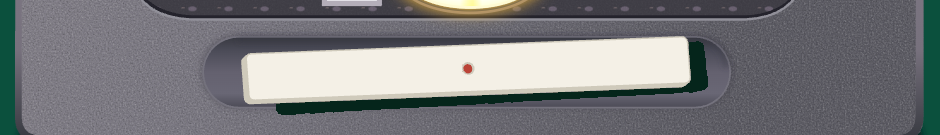
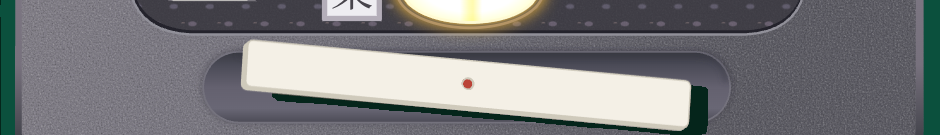
Unify control-box stick channels and blank all main-river tile fronts

diff --git a/app.js b/app.js
@@ -1,10 +1,10 @@
-import { smooth, center, entryScale, flipPose, motionDistance } from './geometry.js?v=20261011-ripple-origin';
-import { Mahjong3D, VIEW } from './mahjong-3d.js?v=20261011-ripple-origin';
-import { REST_STICK, STICK_PICKUP_DURATION, createStickDrop, stickMotionDistance } from './score-stick.js?v=20261011-ripple-origin';
-import { flipAt, settleFlips, revealTiles, resetTiles, topLeftTile, yellowAction, waveInProgress, tileAction } from './tile-interactions.js?v=20261011-ripple-origin';
-import { RIICHI_FACES, nextRiichiFace, sideRiverFaces } from './riichi-faces.js?v=20261011-ripple-origin';
-import { sideRiverCenters } from './river-layout.js?v=20261011-ripple-origin';
-import { drawTableSeams, tableLayout } from './table-surface.js?v=20261011-ripple-origin';
+import { smooth, center, entryScale, flipPose, motionDistance } from './geometry.js?v=20261011-blank-fronts';
+import { Mahjong3D, VIEW } from './mahjong-3d.js?v=20261011-blank-fronts';
+import { REST_STICK, STICK_PICKUP_DURATION, createStickDrop, stickMotionDistance } from './score-stick.js?v=20261011-blank-fronts';
+import { flipAt, settleFlips, revealTiles, resetTiles, topLeftTile, yellowAction, waveInProgress, tileAction } from './tile-interactions.js?v=20261011-blank-fronts';
+import { RIICHI_FACES, sideRiverFaces } from './riichi-faces.js?v=20261011-blank-fronts';
+import { sideRiverCenters } from './river-layout.js?v=20261011-blank-fronts';
+import { drawTableSeams, tableLayout } from './table-surface.js?v=20261011-blank-fronts';
 import { CONTROL } from './physical-layout.js';
 
 const $ = (id) => document.getElementById(id);
@@ -12,10 +12,7 @@ const scene = $('scene'), board = $('board'), canvas = $('table');
 scene.style.setProperty('--console-scale', String(CONTROL.scale));
 scene.style.setProperty('--console-left', `${CONTROL.left}px`);
 const ctx = canvas.getContext('2d', { alpha: false });
-const FONT = '"Source Han Sans SC", "Noto Sans CJK SC", "Noto Sans SC", "PingFang SC", "Microsoft YaHei", sans-serif';
 const COLORS = { table: '#0B503D', back: '#2457B8', front: '#F4F0E6' };
-const UNIT_IDS = ['A', 'A', 'A', 'B', 'B', 'B', 'A', 'A', 'A', 'C', 'C', 'D', 'E', 'E', 'F', 'F', 'G', 'G'];
-const UNIT_NAMES = { A: '主图：观察与秩序', B: '简介：牌河视觉档案', C: '项目：网格实验', D: '关于：整理与创作', E: '文字：近处的秩序', F: '图片：图像研究', G: '联系：一起做点什么' };
 let phase = 'loading', epoch = 0, loadingEpoch = 0, resetCycle = null;
 const LOADING_FADE_DURATION = 200, SCENERY_FADE_DURATION = 200;
 let hovered = null, pressed = null;
@@ -27,7 +24,7 @@ const CONTROL_HINTS = { dealer: 'github', streak: 'bilibili', reset: '重置', '
 let hoveredControl = null, focusedControl = null;
 let stickDrop = null, stickEpoch = 0, restingStick = REST_STICK;
 const mainTiles = Array.from({ length: 18 }, (_, index) => ({
-  index, riverIndex: index, side: 'main', rotation: 0, ...center(index), unit: UNIT_IDS[index], fragment: null, tween: null, front: false, flips: [], order: index,
+  index, riverIndex: index, side: 'main', rotation: 0, ...center(index), fragment: null, tween: null, front: false, flips: [], order: index,
 }));
 const sideTiles = [...sideRiverCenters('kamicha'), ...sideRiverCenters('shimocha')].map((position, index) => ({
   ...position, index: 18 + index, riverIndex: position.index, fragment: null, tween: null, front: false, flips: [], order: 18 + index,
@@ -50,59 +47,18 @@ function makeTexture(width, height) {
   return { element, context };
 }
 
-function label(context, text, x, y, size = 16, color = '#748576') {
-  context.font = `${size}px ${FONT}`; context.fillStyle = color; context.textBaseline = 'alphabetic';
-  context.fillText(text, x, y);
-}
-
-function textCard(context, x, caption, title, subtitle = '', line = true) {
-  label(context, caption, x + 14, 34);
-  const titleLines = Array.isArray(title) ? title : [title];
-  titleLines.forEach((text, index) => label(context, text, x + 14, 92 + index * 32, 24, '#254638'));
-  if (subtitle) label(context, subtitle, x + 14, 125, 18, '#254638');
-  if (line) { context.fillStyle = '#c5cebc'; context.fillRect(x + 14, 176, 136, 1); }
-}
-
 async function loadImage(url) {
   const img = new Image(); img.src = url; await img.decode(); return img;
 }
 
 async function buildTextures() {
-  const [art] = await Promise.all([
-    loadImage('./assets/artwork.svg'),
-    Promise.all(RIICHI_FACES.map(async (face) => riichiImages.set(face.code, await loadImage(face.image)))),
-  ]);
-  const units = {};
-  for (const [id, width, height] of [['A', 500, 452], ['B', 500, 224], ['C', 332, 224], ['D', 164, 224], ['E', 332, 224], ['F', 332, 224], ['G', 332, 224]]) {
-    units[id] = makeTexture(width, height);
-    units[id].context.fillStyle = COLORS.front;
-    units[id].context.fillRect(0, 0, width, height);
-  }
-  units.A.context.drawImage(art, 0, 0, 500, 452);
-  textCard(units.B.context, 0, '牌河', '视觉档案', '', false);
-  textCard(units.B.context, 168, '18 张牌', '7 个单元', '', false);
-  textCard(units.B.context, 336, '01 / 简介', '观察与秩序', '', false);
-  textCard(units.C.context, 0, '02 / 项目', '网格实验');
-  textCard(units.C.context, 168, '2026', '设计与交互');
-  textCard(units.D.context, 0, '03 / 关于', '整理与创作');
-  textCard(units.E.context, 0, '04 / 文字', '近处的秩序');
-  textCard(units.E.context, 168, '随笔', '阅读片段');
-  textCard(units.F.context, 0, '05 / 图片', '图像占位');
-  textCard(units.F.context, 168, '图像', '图像研究');
-  textCard(units.G.context, 0, '06 / 联系', ['一起做', '点什么']);
-  textCard(units.G.context, 168, '联系', '保持联系');
-  const origins = {
-    A: [0, 0], B: [0, 3], C: [1, 3], D: [1, 5], E: [2, 0], F: [2, 2], G: [2, 4],
-  };
-  for (const tile of mainTiles) {
-    const [row, col] = origins[tile.unit];
-    const cropX = (tile.index % 6 - col) * 168, cropY = (Math.floor(tile.index / 6) - row) * 228;
-    const texture = makeTexture(164, 224);
-    texture.context.drawImage(units[tile.unit].element, cropX * 2, cropY * 2, 328, 448, 0, 0, 164, 224);
-    roundRect(texture.context, 1, 1, 162, 222, 7, null, '#fbf7ed');
-    tile.fragment = texture.element;
-    tile.crop = { x: cropX, y: cropY, width: 164, height: 224 };
-  }
+  await Promise.all(RIICHI_FACES.filter(face => !face.code.startsWith('0'))
+    .map(async face => riichiImages.set(face.code, await loadImage(face.image))));
+  // All 18 main-river fronts share one entirely blank ivory texture.
+  const blank = makeTexture(164, 224);
+  blank.context.fillStyle = COLORS.front;
+  blank.context.fillRect(0, 0, 164, 224);
+  for (const tile of mainTiles) tile.fragment = blank.element;
   const back = makeTexture(164, 224);
   roundRect(back.context, 0, 0, 164, 224, 8, COLORS.back);
   // A shallow, entirely face-internal bevel; no static side strip or tile shadow.
@@ -113,7 +69,6 @@ async function buildTextures() {
     back.context.beginPath(); back.context.moveTo(15, y); back.context.lineTo(149, y); back.context.stroke();
   }
   for (const tile of tiles) tile.back = back.element;
-  changeRiichiFace();
   changeSideFaces();
 }
 
@@ -129,15 +84,6 @@ function changeSideFaces() {
     mahjong?.updateTileFront(tile.index, tile.fragment, face.code);
     tile.button.dataset.riichiFace = face.code; updateTileLabel(tile);
   });
-}
-
-function changeRiichiFace() {
-  const tile = tiles[17];
-  tile.riichiFace = nextRiichiFace(tile.riichiFace?.code);
-  paintRiichiFace(tile.fragment, tile.riichiFace);
-  mahjong?.updateTileFront(17);
-  tile.button.dataset.riichiFace = tile.riichiFace.code;
-  updateTileLabel(tile);
 }
 
 function paintRiichiFace(canvas, face) {
@@ -264,7 +210,6 @@ function render(time) {
   }
   if (resetCycle && time >= resetCycle.end) {
     resetCycle = null; phase = 'idle'; $('reset').disabled = false;
-    changeRiichiFace();
     changeSideFaces();
     $('status').textContent = '三处牌河已恢复蓝背。点击黄色灯开始，或点击任意蓝背牌再次展开。';
   }
@@ -336,7 +281,7 @@ function startReset(originTile = null) {
 }
 
 function updateTileLabel(tile) {
-  const label = tile.front ? tile.riichiFace?.label ?? UNIT_NAMES[tile.unit] : '揭示档案';
+  const label = tile.front ? tile.riichiFace?.label ?? '空白牌' : '未翻开的牌';
   const action = tile.front && tile.side !== 'main' ? '，点击以此牌为中心波纹合牌并更换两侧牌面' : '';
   tile.button.setAttribute('aria-label', `${label}，${tilePositionLabel(tile)}${action}`);
   tile.button.setAttribute('aria-busy', String(Boolean(tile.flips.length)));
@@ -451,7 +396,7 @@ async function initialize() {
     style.addEventListener('error', () => reject(new Error('Stylesheet failed to load')), { once: true });
   });
   await document.fonts.ready;
-  await Promise.all([buildTextures(), loadImage('./assets/control-box.svg?v=20261011-ripple-origin').then((image) => { consoleImage = image; })]);
+  await Promise.all([buildTextures(), loadImage('./assets/control-box.svg?v=20261011-blank-fronts').then((image) => { consoleImage = image; })]);
   mahjong = new Mahjong3D($('mahjong'), mainTiles, sideTiles);
   updateControlHint();
   resize();

diff --git a/index.html b/index.html
@@ -13,9 +13,9 @@
       #loading[hidden] { display: none; }
     </style>
     <link rel="icon" href="./assets/favicon.svg" type="image/svg+xml">
-    <link id="page-style" rel="stylesheet" href="./styles.css?v=20261011-ripple-origin" media="print" onload="this.media='all'">
-    <noscript><link rel="stylesheet" href="./styles.css?v=20261011-ripple-origin"></noscript>
-    <script src="./app.js?v=20261011-ripple-origin" type="module"></script>
+    <link id="page-style" rel="stylesheet" href="./styles.css?v=20261011-blank-fronts" media="print" onload="this.media='all'">
+    <noscript><link rel="stylesheet" href="./styles.css?v=20261011-blank-fronts"></noscript>
+    <script src="./app.js?v=20261011-blank-fronts" type="module"></script>
   </head>
   <body>
     <div id="loading" role="status" aria-live="polite"><span id="loading-text">loading</span></div>

diff --git a/mahjong-3d.js b/mahjong-3d.js
@@ -1,7 +1,7 @@
 import * as THREE from './vendor/three.module.js';
-import { SPEC } from './geometry.js?v=20261011-ripple-origin';
+import { SPEC } from './geometry.js?v=20261011-blank-fronts';
 import { mm } from './physical-layout.js';
-import { STICK, REST_STICK } from './score-stick.js?v=20261011-ripple-origin';
+import { STICK, REST_STICK } from './score-stick.js?v=20261011-blank-fronts';
 
 // Includes every lifted/rotated silhouette and the light's maximum projected shadow.
 export const VIEW = Object.freeze({ left: -160, top: 0, width: 2240, height: 1040 });

diff --git a/tile-interactions.js b/tile-interactions.js
@@ -1,4 +1,4 @@
-import { SPEC } from './geometry.js?v=20261011-ripple-origin';
+import { SPEC } from './geometry.js?v=20261011-blank-fronts';
 
 export function topLeftTile(tiles) {
   return tiles.reduce((first, tile) => !first || tile.y < first.y || (tile.y === first.y && tile.x < first.x) ? tile : first, null);

diff --git a/river-layout.js b/river-layout.js
@@ -1,4 +1,4 @@
-import { SPEC, center } from './geometry.js?v=20261011-ripple-origin';
+import { SPEC, center } from './geometry.js?v=20261011-blank-fronts';
 import { CONTROL } from './physical-layout.js';
 
 // Rotate the main river around the full square control box, including the part

diff --git a/README.md b/README.md
@@ -24,7 +24,7 @@
 
 左侧上家、右侧下家各补全一个 6 × 3 的三维牌河，围绕完整方形控制盒的中心分别旋转 90°。牌体尺寸与间隔和主牌河相同，朝向对应玩家；屏幕边缘自然裁切超出的部分。正面采用同一套本地日麻 SVG，保持四周留白，使用原有三渲二材质和唯一方向光的真实阴影。
 
-两侧共用一个由 **34 种普通牌面各两张**构成的随机牌池，页面加载时不放回抽取 36 张。排除赤五 `0m`、`0p`、`0s`，两侧合计同一种牌最多两张。三处牌河都默认**蓝背朝上**，共 54 张牌，使用相同的悬停、鼠标、键盘和触屏交互，并共同参与展开及重置波纹。每次合牌完成后，两侧重新从同一个牌池抽取 36 张，仍无赤五且每种合计最多两张；下方牌河右下角牌也继续换牌。两侧正面牌以点击的那张牌为中心波纹合牌，黄色灯仍从全局左上方开始合牌；两种操作均在合牌结束后换牌。下方正面牌保持无响应。
+两侧共用一个由 **34 种普通牌面各两张**构成的随机牌池，页面加载时不放回抽取 36 张。排除赤五 `0m`、`0p`、`0s`，两侧合计同一种牌最多两张。三处牌河都默认**蓝背朝上**，共 54 张牌，使用相同的悬停、鼠标、键盘和触屏交互，并共同参与展开及重置波纹。每次合牌完成后，两侧重新从同一个牌池抽取 36 张，仍无赤五且每种合计最多两张。下方 18 张牌的正面全部为空白象牙色。两侧正面牌以点击的那张牌为中心波纹合牌，黄色灯仍从全局左上方开始合牌；两种操作均在合牌结束后换牌。下方正面牌保持无响应。
 
 ![下方、上家与下家牌河的正面及玩家朝向](docs/v2-riichi-preview.png)
 
@@ -36,7 +36,7 @@
 
 ## 参考图控制盒
 
-控制盒按用户提供的 **698 × 262** 下半部分参考图重新绘制，纹理与部件由本地 `assets/control-box.svg` 提供，继续使用二维绘制。保留灰色颗粒外壳、紫灰点纹面板、上缘局部金属框、两侧纵向凹槽、起家与连庄三角按钮、黄色椭圆灯、蓝色圆灯、“東”标志和立直棒槽。三角按钮与品牌文字已去除；两个三角按钮保持原尺寸，对角白边之间的间距缩短为原来的一半。
+控制盒按用户提供的 **698 × 262** 下半部分参考图重新绘制，纹理与部件由本地 `assets/control-box.svg` 提供，继续使用二维绘制。保留灰色颗粒外壳、紫灰点纹面板、上缘局部金属框、两侧纵向凹槽、起家与连庄三角按钮、黄色椭圆灯、蓝色圆灯、“東”标志和立直棒槽。三角按钮与品牌文字已去除；两个三角按钮保持原尺寸，对角白边之间的间距缩短为原来的一半。左右露出的纵向点棒槽与下方槽复用同一 SVG 槽体，统一圆角、槽宽、内凹渐变和边缘阴影，再按朝向旋转并保留原有裁切范围。
 
 视口上沿对应参考图的 y = 0；绘图资产只包含参考图中露出的部分，不添加控制盒上半部分。外壳 x = 7..689 的宽度仍为 910 个设计像素，整张裁切图统一等比缩放，包含底部阴影的可见高度约为 349.6。黄色灯保留原来的悬停、按下反馈，并按牌面状态执行下面的展开或合牌波纹；起家按钮在新标签页打开 [GitHub](https://github.com/5h1nRyu)，连庄按钮在新标签页打开 [bilibili](https://space.bilibili.com/3546925661948276)，蓝色灯暂不绑定点击功能。
 
@@ -56,19 +56,19 @@
 - 鼠标、键盘 Enter / 空格及触屏均可触发三处牌河的波纹。方向键按屏幕中的实际方向选择可见牌；点击区域裁切到实际露出的部分，屏幕外的牌不接受焦点，不引起页面滚动。
 - 无论系统“减少动态效果”设置如何，都执行上述默认动画。
 
-## 桌面缝隙与右下角日麻牌面
+## 桌面缝隙与牌面
 
 桌面接缝以用户本轮提供的 **730 × 486 双桌俯视图**为准：取左侧白色桌的控制盒 51 像素边长，统一映射到网页现有控制盒 910 个设计像素的边长。按原图坐标重画中央盖板的切角轮廓、四条斜向分隔缝、四条内侧升牌口及四条外侧出牌口，不再按视窗重新安排长度和位置。中央盖板约为控制盒边长的 1.9 倍，内侧长槽约为 2.7 倍，外侧短槽约为 2 倍；详细端点及比例见 [接缝参考图标定](docs/table-seam-reference.md)。这些是参考图中的比例，并非厂家公布的尺寸。使用平面深色细线绘制，不增加光影效果；参考照片不随站点分发。接缝仍为 **3 个设计像素宽（最初的 1.5 倍）**。
 
 牌、点棒与控制盒仍使用原来的 **1920 × 1080 构图坐标**、居中缩放及固定正俯视相机。桌面画布单独扩展：覆盖左、右、下方全部出入口边界，并随视口比例补足可见范围；不再在原来的画布边缘截断接缝。桌面延伸部分只绘制背景及接缝，物件和点击区域保持原坐标。屏幕边缘继续自然裁切，页面不允许滚动，也不增加视角移动。
 
-下方牌河右下角第 18 张牌使用 [FluffyStuff 的日麻牌面](https://github.com/FluffyStuff/riichi-mahjong-tiles)，本地保存原始 `Regular` SVG，共 **37 种**：`0–9m`、`0–9p`、`0–9s` 和中、發、白、東、南、西、北。`0` 表示赤五，白牌保持空白；牌面覆盖在原有象牙色三维实体上。参考 [AMOS BN 实物正面照片](https://www.alban.co.jp/products/detail/752)与 [AMOS SMART 官方实物图](https://shop.taiyo-chemicals.co.jp/shopdetail/000000000030/)，图案按 **80%** 的面内尺寸居中绘制，保留 SVG 原始 3:4 比例，四周留下象牙色空白。缩放是照片观察后的视觉调整，并非厂家公布的刻印尺寸。下方牌河的其他 17 张牌保持原来的档案内容；两侧使用上述不含赤五的日麻牌池。
+下方牌河全部 **18 张**牌的正面为纯象牙白，文字、插画及右下角日麻图案均已清空。它们共用一个空白正面纹理，重置后仍为空白；蓝背、三维牌体、排列、悬停及展开和合牌交互保持原样。
 
-按 [M.LEAGUE 官方规则第一章第二条](https://m-league.jp/about/)，136 张牌中萬、筒、索各含一张赤五，普通五各三张，其余牌各四张。首次加载按该张数权重随机选择；每次完整重置结束、所有牌恢复蓝背之后更换，排除上一种牌面，保证连续两次不同。波纹过程中保持当前牌面，翻开右下角牌即可看到新牌。
+两侧牌河使用 [FluffyStuff 的日麻牌面](https://github.com/FluffyStuff/riichi-mahjong-tiles)，保留本地原始 `Regular` SVG 素材库，共 **37 种**：`0–9m`、`0–9p`、`0–9s` 和中、發、白、東、南、西、北。当前页面仅加载两侧使用的 **34 种非赤五牌面**。参考 [AMOS BN 实物正面照片](https://www.alban.co.jp/products/detail/752)与 [AMOS SMART 官方实物图](https://shop.taiyo-chemicals.co.jp/shopdetail/000000000030/)，图案按 **80%** 的面内尺寸居中绘制，保留 SVG 原始 3:4 比例及四周象牙色空白。两侧在每次完整合牌之后重新随机，无赤五、同一种合计最多两张。
 
 牌面素材采用 **CC0 1.0**，可用于此静态站点；来源、固定版本和许可见 [`assets/mahjong/SOURCES.md`](assets/mahjong/SOURCES.md) 与 [`LICENSE.md`](assets/mahjong/LICENSE.md)。加载与重置均无需外部图片服务。
 
-![桌面接缝及右下角日麻牌面](docs/v2-riichi-preview.png)
+![桌面接缝、下方空白牌与两侧日麻牌面](docs/v2-riichi-preview.png)
 
 ![超宽屏中按参考图比例露出的升牌口](docs/v2-reference-seams-wide.png)
 
@@ -88,7 +88,7 @@
 
 - **正上方正交相机**：采用无近大远小的平行投影，保持原有正俯视构图。物件构图仍为 1920 × 1080，6 × 3 牌阵、147 × 196 牌面、4 px 间距；桌面画布向左、右、下方扩展。窗口缩放只等比缩放，不改变相机方向。
 - **真实实体**：每张牌使用圆角挤出几何体，具有 115.5 的厚度，蓝背 / 牌芯 / 正面分层为 28 / 80.5 / 7，保持原有分层比例。翻转是绕长轴的真实三维旋转，抬起使用真实高度；最低点始终位于桌面之上。
-- **牌面贴图**：加载后切分下方跨牌图像，右下角片段替换为日麻牌面并在重置后更新现有 GPU 贴图。两侧按 34 种普通牌面缓存画布及 GPU 纹理，换牌时切换并复用，缓存不会随重置次数持续增长。正面 UV 预先校正，翻转完成后文字正向且不镜像。
+- **牌面贴图**：下方 18 张牌共用一个纯象牙白画布及 GPU 纹理，重置时保持空白。两侧按 34 种普通牌面缓存画布及 GPU 纹理，换牌时切换并复用，缓存不会随重置次数持续增长。正面 UV 预先校正，翻转完成后文字正向且不镜像。
 - **三渲二材质**：使用单一白色梯度的 `MeshToonMaterial`，保持既有纹理和分层配色。牌面不附加明暗渐变、自阴影、高光或反射。
 - **真实光源**：只使用一个方向光和深度阴影贴图，桌面接收模型投射的真实硬边阴影。阴影随实体轮廓、旋转和抬起高度变化，已删除固定右影矩形、牌缝色块和拼接阴影的模拟代码。
 - **没有新增光影效果**：没有环境光、环境贴图、AO、辉光、景深、软阴影或镜面反射。控制盒不参与三维光照。
@@ -112,7 +112,7 @@ python3 -m http.server 8080
 
 部署完成后访问 **https://5h1nryu.github.io/ShinRyu/**。
 
-本次更新给入口脚本、样式、麻将与点棒模块、翻牌交互模块、日麻牌面模块、桌面接缝模块和控制盒图片的 URL 加了 `v=20261011-ripple-origin` 版本参数，让浏览器和 CDN 按新地址获取资源。后续修改这些资源时应同步更新对应版本参数，包括引用它们的模块入口。
+本次更新给入口脚本、样式、麻将与点棒模块、翻牌交互模块、日麻牌面模块、桌面接缝模块和控制盒图片的 URL 加了 `v=20261011-blank-fronts` 版本参数，让浏览器和 CDN 按新地址获取资源。后续修改这些资源时应同步更新对应版本参数，包括引用它们的模块入口。
 
 ## 检查与文件
 
@@ -128,7 +128,7 @@ npm test
 | 文件 | 用途 |
 | --- | --- |
 | `index.html` / `styles.css` | 二维控制盒、三维画布和可访问按钮 |
-| `app.js` | 原有状态机、交互、逐牌纹理和二维控制盒 |
+| `app.js` | 原有状态机、交互、下方空白正面、两侧随机牌面和二维控制盒 |
 | `mahjong-3d.js` | 三维模型、卡通材质、单光源真实阴影和 GPU 采样 |
 | `geometry.js` | 布局、双向时序和投影速度计算 |
 | `river-layout.js` | 上家、下家牌河的位置和朝向 |
@@ -141,4 +141,4 @@ npm test
 | `vendor/` | 本地固定版本 Three.js 与 MIT 许可证 |
 | `tests/` | 交互几何与三维模型验收 |
 
-替换 `assets/artwork.svg` 和 `app.js` 中 `buildTextures()` 的文字即可更新内容。模型和交互无需修改。
+下方空白正面由 `app.js` 中 `buildTextures()` 生成；两侧牌面由 `changeSideFaces()` 更换。原有插画文件仍保留在素材目录，但当前页面不加载它。
